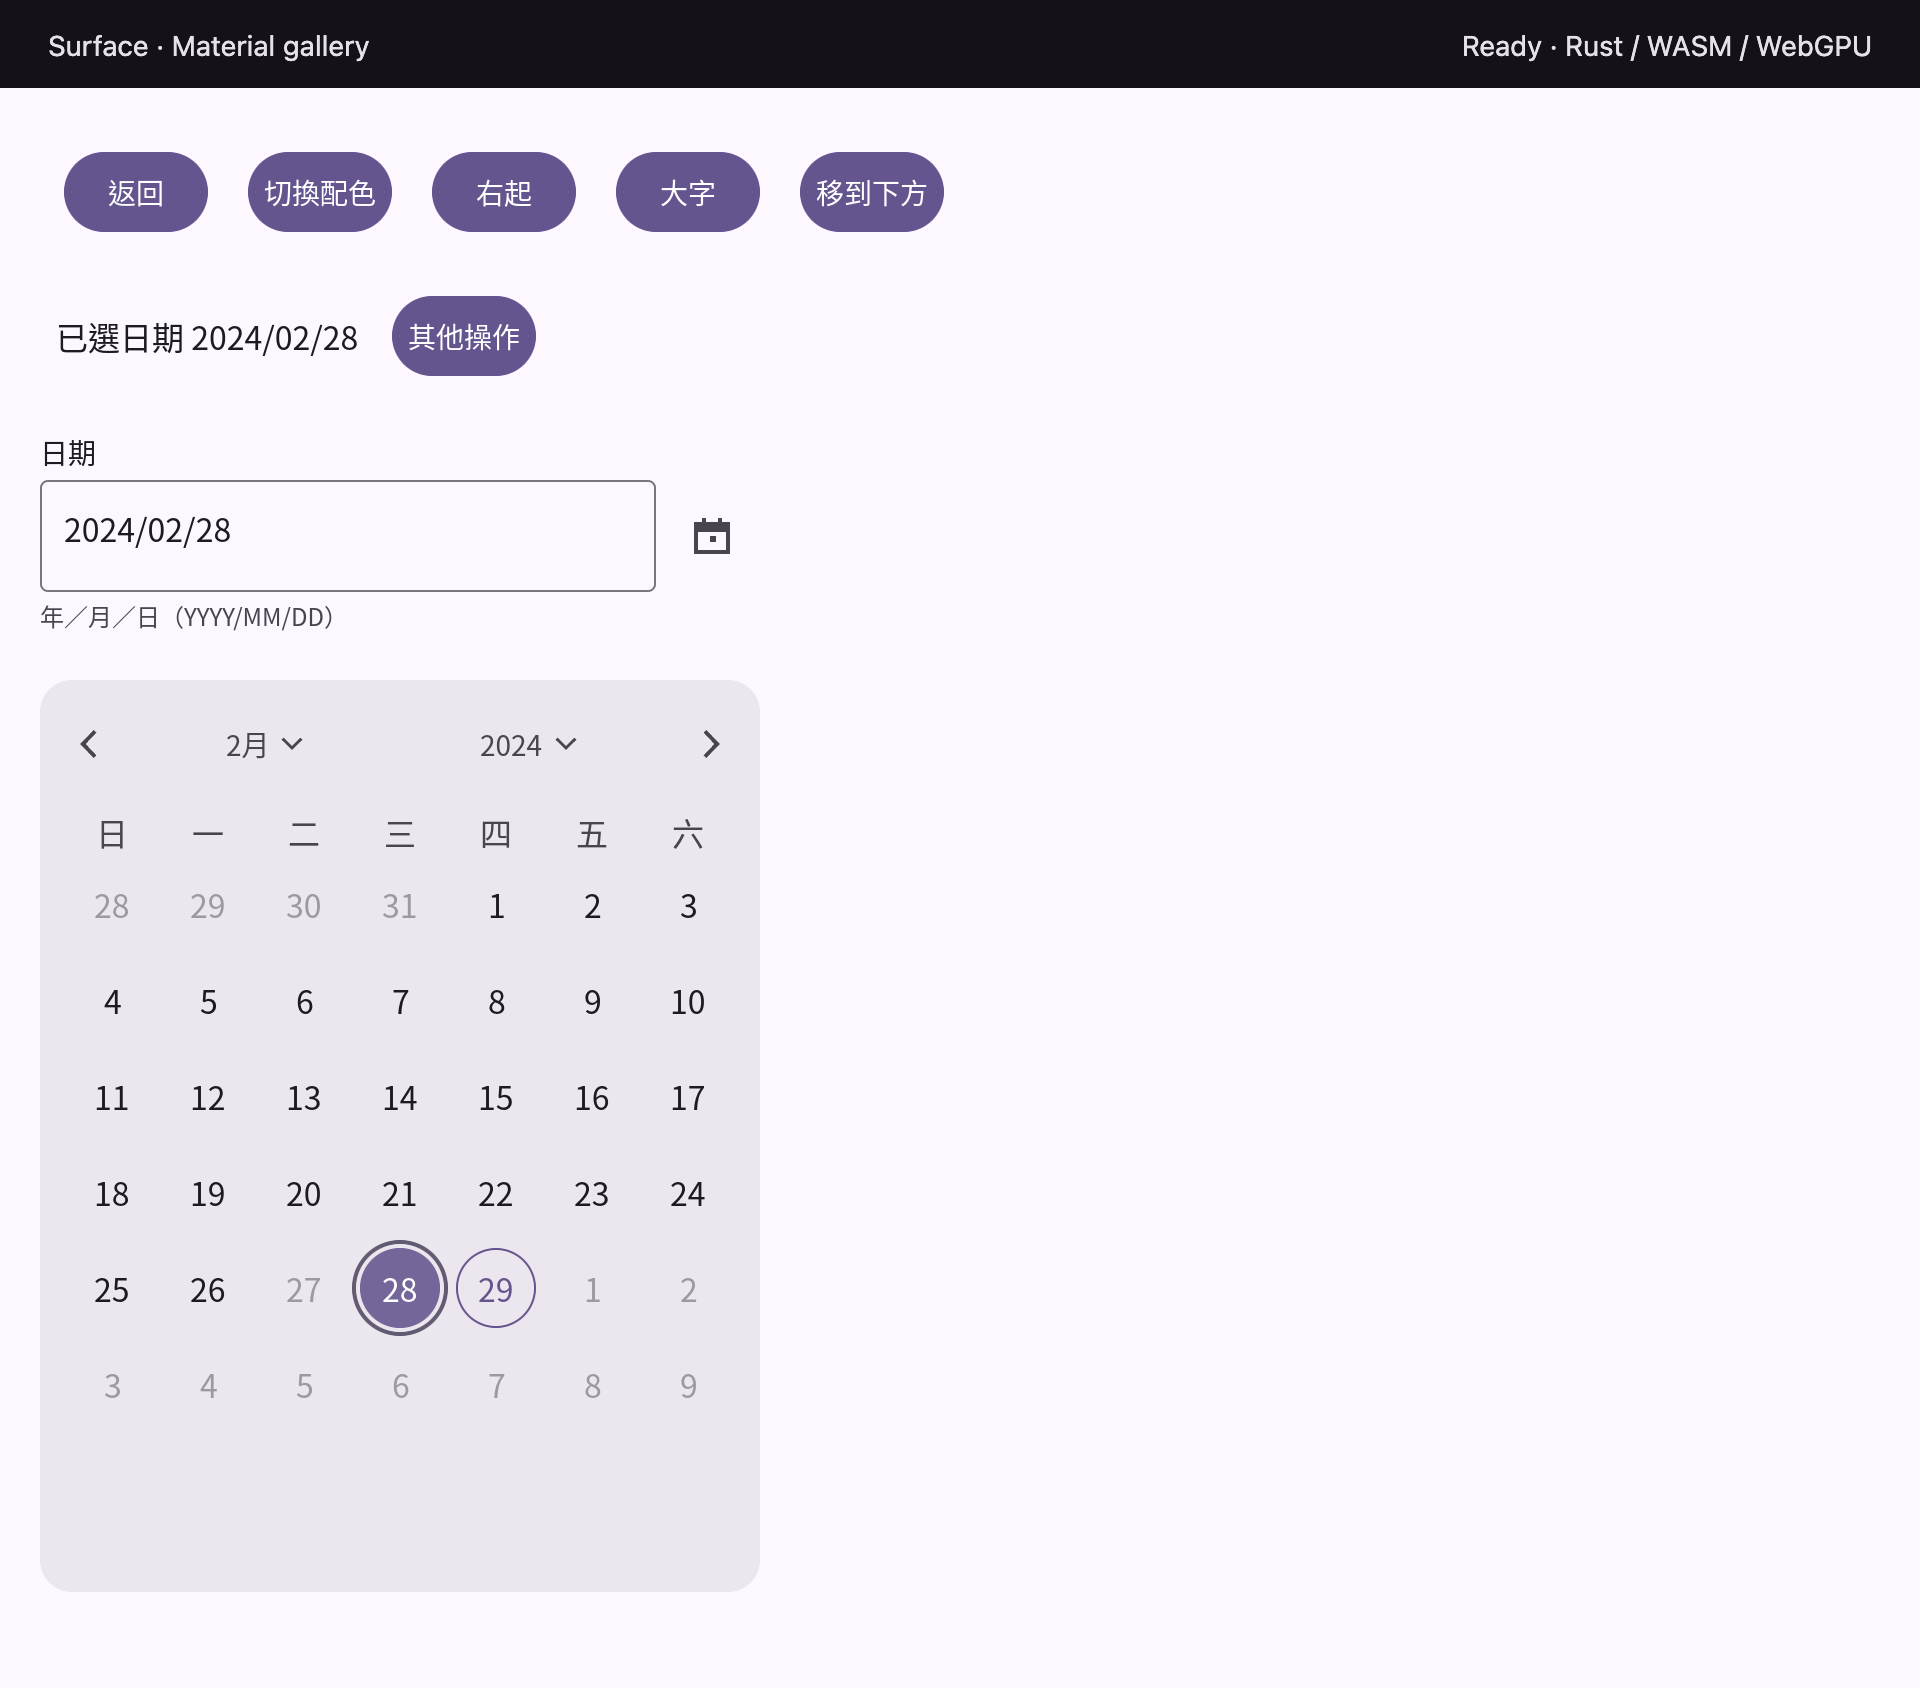
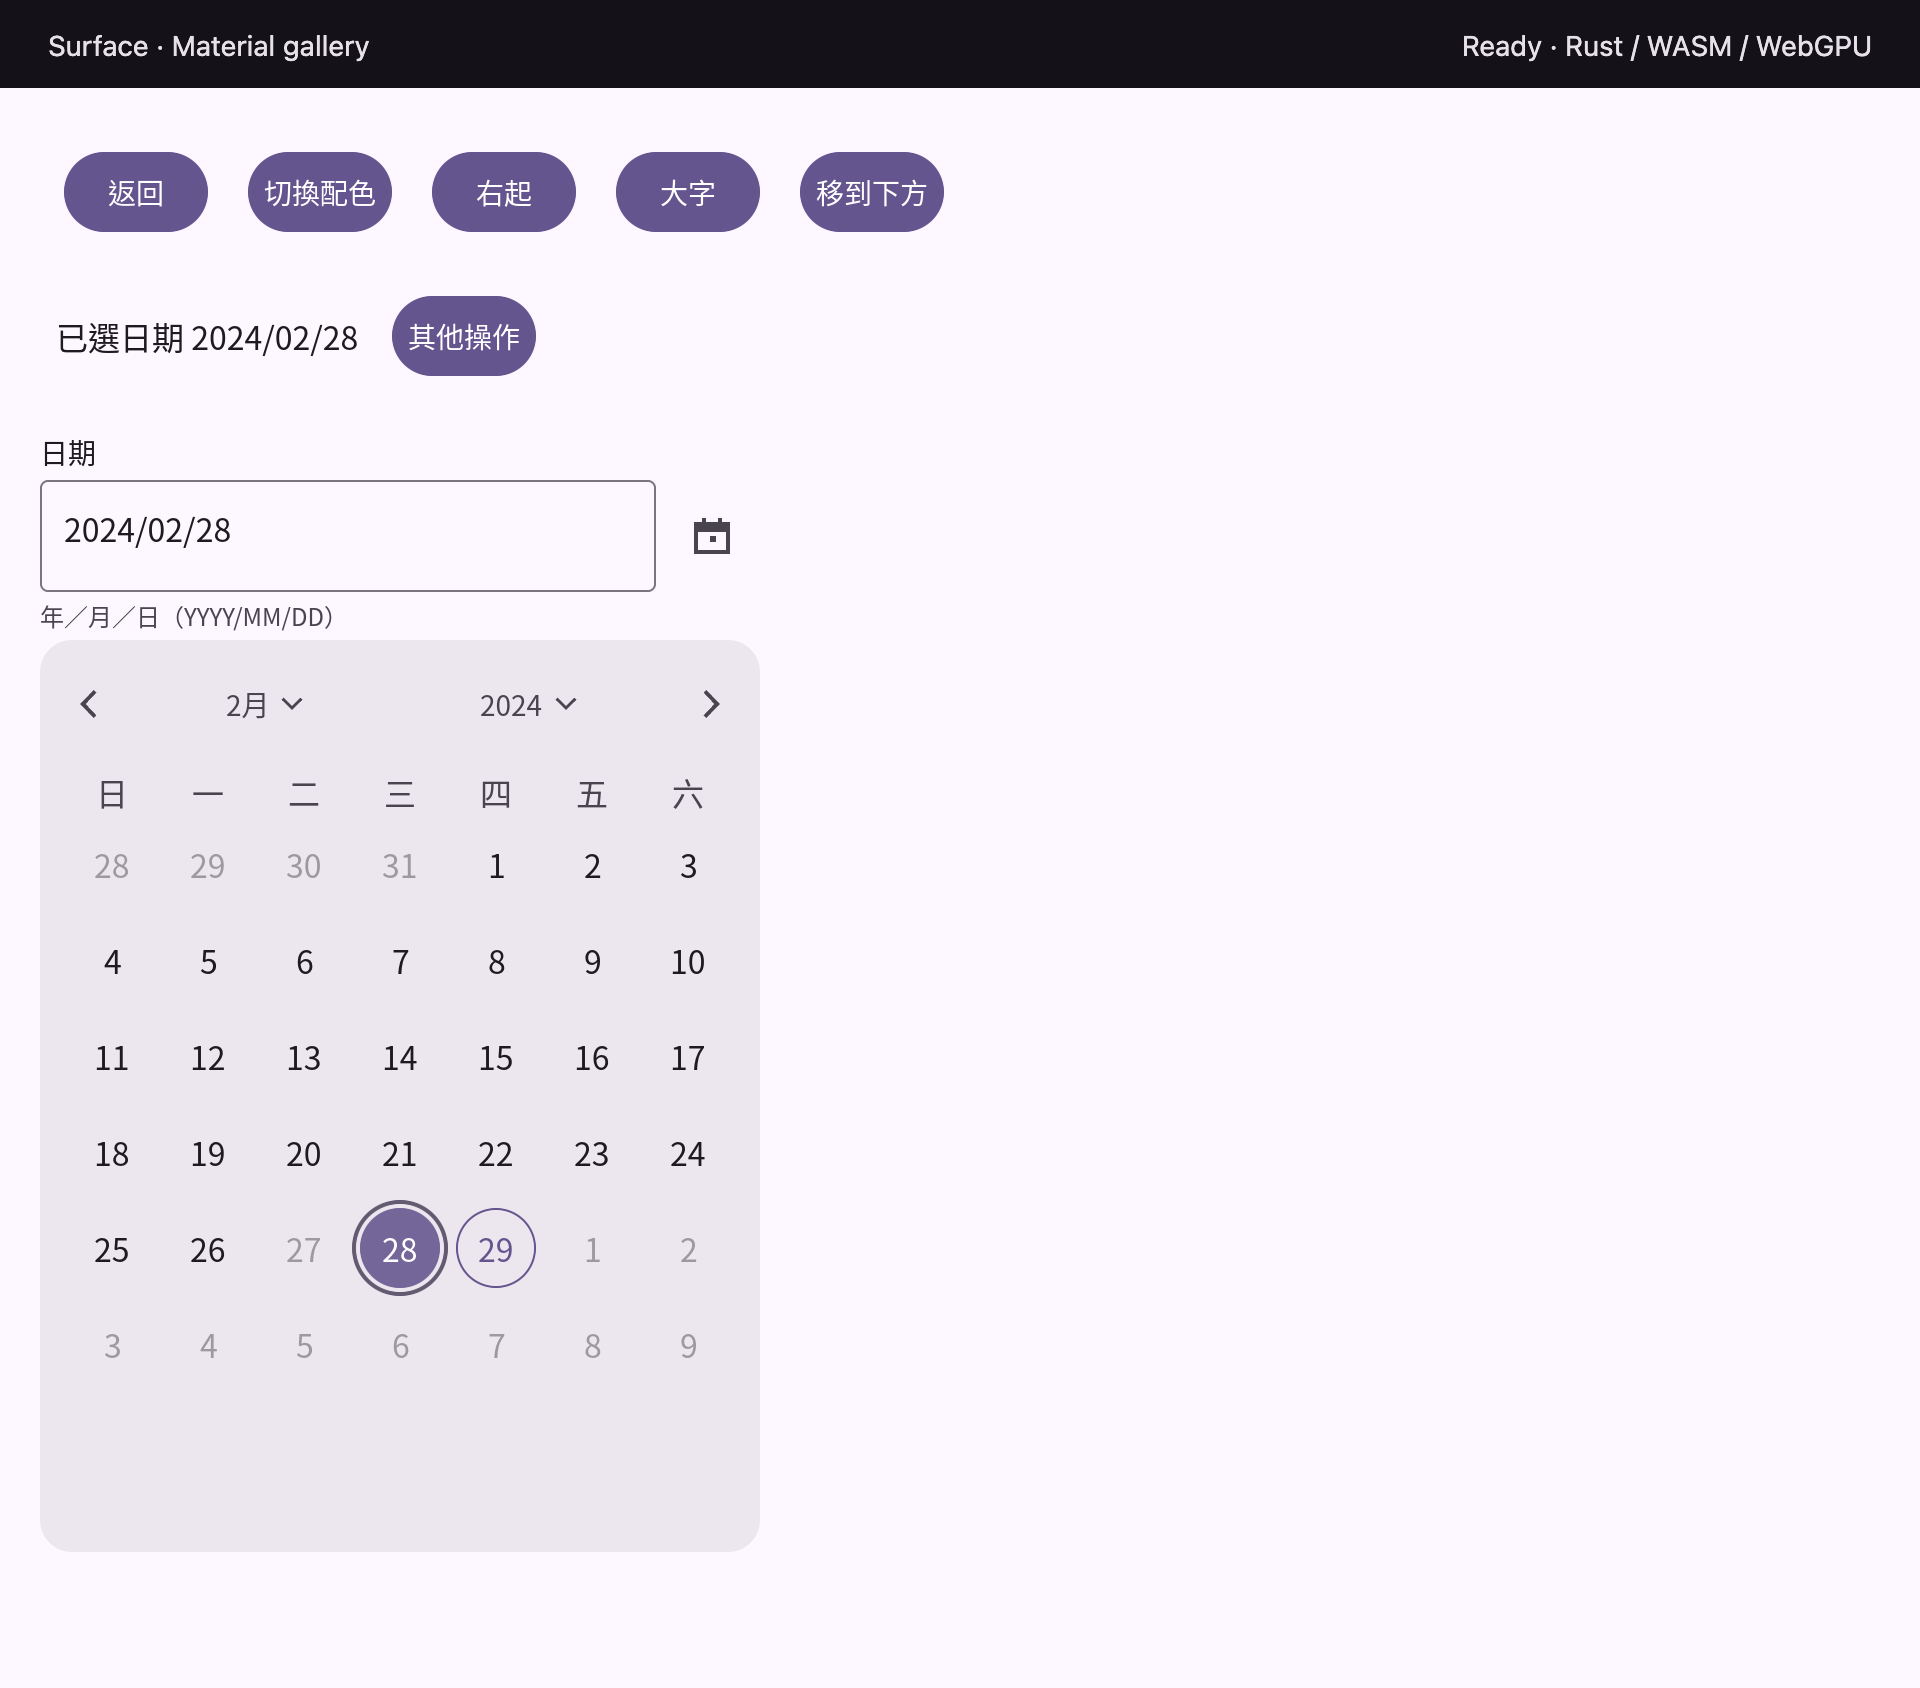
docs(evidence): verify docked date anchor reflow [skip ci]

diff --git a/docs/evidence/md3/docked-date-picker-v0.1.19/README.md b/docs/evidence/md3/docked-date-picker-v0.1.19/README.md
@@ -51,6 +51,14 @@ and validation, held pointer focus, composition, grid accessibility,
 month and year browsing, dismissal, and compact RTL.
 The composition evidence uses Chrome's synthetic IME events.
 
+The first Linux run used a field position from before text reflow.
+This caused the popup to overlap the calendar button. The Gallery now
+requests a frame after layout changes and places the popup at the updated
+field position. A Gallery test checks the first frame after opening.
+[Original hosted failure geometry](web/hosted-anchor-before.json) ·
+[Anchor comparison](web/anchor-geometry-comparison.json) ·
+[Original GitHub Actions run](https://github.com/faberline/surface/actions/runs/45091274456)
+
 Chrome/157.0.8103.79 used Apple Metal 3. All five cases passed 6,902 checks. Material passed 120 steps and 6,654 checks.
 
 [Docked Date Picker report](web/browser-material-docked-date-picker.json) ·
